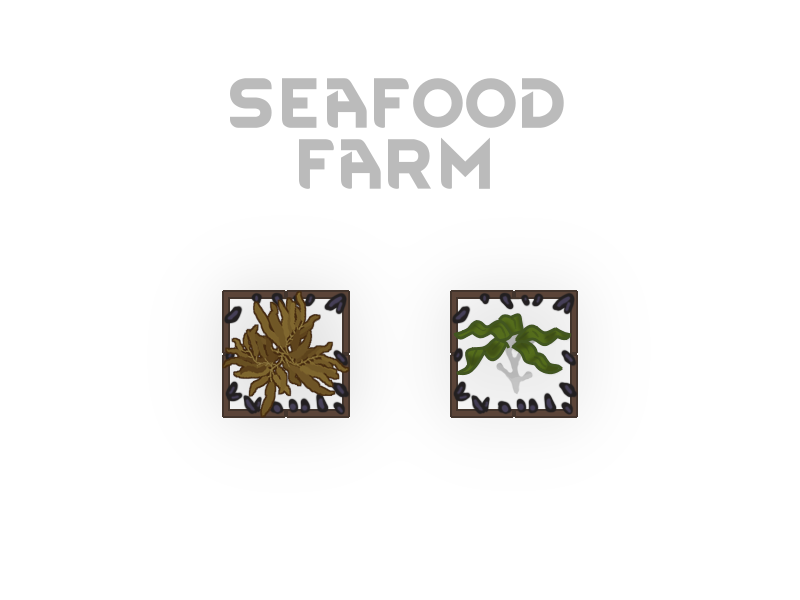
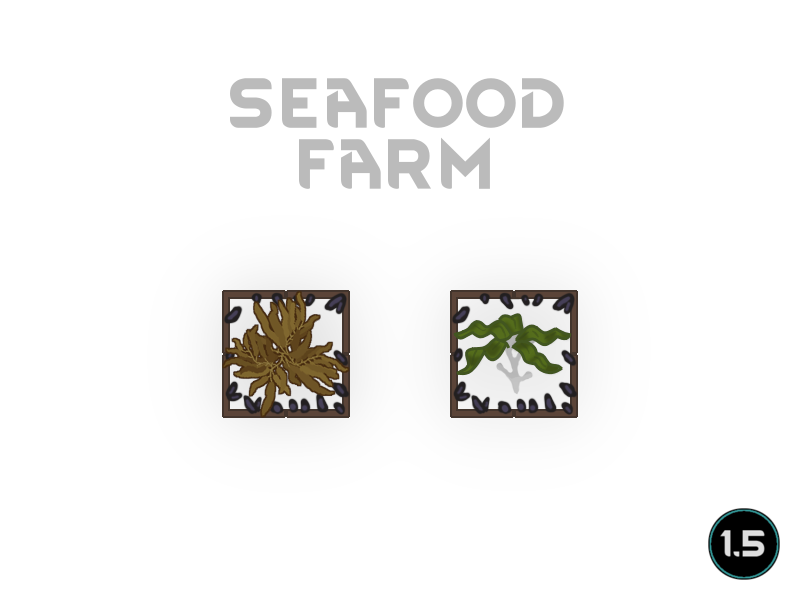
Mod updated for 1.5 and passed autotests

Changed region(s): [[0.875, 0.84, 1.0, 0.99]]

diff --git a/Source/SeafoodFarm/SeafoodFarmCompProperties.cs b/Source/SeafoodFarm/SeafoodFarmCompProperties.cs
@@ -5,12 +5,12 @@ namespace SeafoodFarm;
 
 public class SeafoodFarmCompProperties : CompProperties
 {
-    public List<string> affectedByDefName = new List<string>();
-    public int affectRange = 5;
-    public List<int> spawnAmounts = new List<int>();
-    public int spawnDays = 1;
+    public readonly List<string> affectedByDefName = [];
+    public readonly int affectRange = 5;
+    public readonly List<int> spawnAmounts = [];
+    public readonly int spawnDays = 1;
 
-    public List<ThingDef> spawningThingDefs = new List<ThingDef>();
+    public readonly List<ThingDef> spawningThingDefs = [];
 
     public SeafoodFarmCompProperties()
     {

diff --git a/README.md b/README.md
@@ -1,6 +1,6 @@
 # SeafoodFarm
 
-![Image](https://i.imgur.com/buuPQel.png)
+![Image](https://i.imgur.com/iCj5o7O.png)
 
   
 This is made as an addon for the https://steamcommunity.com/sharedfiles/filedetails/?id=2544523612]Neolithic Scavenging mod.
@@ -30,23 +30,26 @@ or by being near a sewage outlet from:
 Idea and graphics by Hydromancerx
 Kelp and Seaweed art used with permission of Draegon
 
-![Image](https://i.imgur.com/O0IIlYj.png)
+![Image](https://i.imgur.com/Ds0rBAD.png)
 
 Since modding is just a hobby for me I expect no donations to keep modding. If you still want to show your support you can gift me anything from my https://store.steampowered.com/wishlist/id/Mlie]Wishlist or buy me a cup of tea.
 
-https://ko-fi.com/G2G55DDYD]![Image](https://i.imgur.com/Utx6OIH.png)
+https://ko-fi.com/G2G55DDYD]![Image](https://i.imgur.com/VWG0yff.png)
 
 
-![Image](https://i.imgur.com/PwoNOj4.png)
+![Image](https://i.imgur.com/5xwDG6H.png)
 
 
 
 -  See if the the error persists if you just have this mod and its requirements active.
 -  If not, try adding your other mods until it happens again.
--  Post your error-log using https://steamcommunity.com/workshop/filedetails/?id=818773962]HugsLib and command Ctrl+F12
+-  Post your error-log using https://steamcommunity.com/workshop/filedetails/?id=818773962]HugsLib or the standalone https://steamcommunity.com/sharedfiles/filedetails/?id=2873415404]Uploader and command Ctrl+F12
 -  For best support, please use the Discord-channel for error-reporting.
 -  Do not report errors by making a discussion-thread, I get no notification of that.
 -  If you have the solution for a problem, please post it to the GitHub repository.
+-  Use https://github.com/RimSort/RimSort/releases/latest]RimSort to sort your mods
 
 
+
+https://steamcommunity.com/sharedfiles/filedetails/changelog/2820752251]![Image](https://img.shields.io/github/v/release/emipa606/SeafoodFarm?label=latest%20version&style=plastic&labelColor=0070cd&color=white)
 
